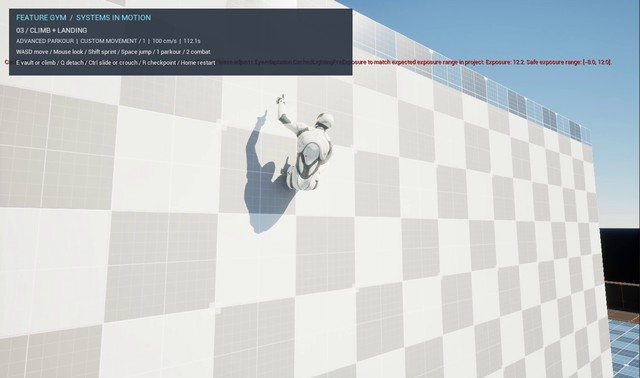
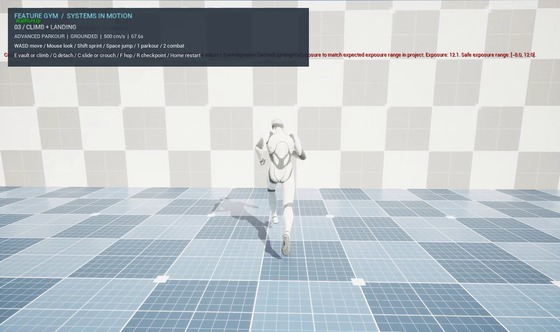
Refresh traversal GIFs from updated Feature Gym recording

diff --git a/assets/feature-gym.js b/assets/feature-gym.js
@@ -43,7 +43,7 @@ export function renderFeatureGym() {
     <section id="gym-architecture" class="gym-section gym-overview">${architecture()}${copy('01 / SYSTEM OVERVIEW','Parkour plugin architecture','<p>I built the parkour plugin around a single custom character movement component. Climbing, vaulting, and sliding feed into the same movement and animation pipeline.</p><p>Detection and movement conditions determine which traversal state can run. Blueprint-exposed settings connect the C++ implementation to animation and gameplay configuration.</p>')}</section>
     <section id="gym-slide" class="gym-section gym-three">${copy('02 / TRAVERSAL','Sliding','<p>I implemented sliding as an additional traversal option, allowing the player to transition from normal movement into a lower-profile movement state.</p><p>The movement component checks whether a slide can start, adjusts the collision dimensions, and handles the custom sliding physics before returning to normal movement.</p>')}${clip('slide-under-obstacle','Slide under an obstacle','Gameplay capture · 6.2 seconds · loop available')}${flow('PLAYER SLIDE LOGIC',['Player moving','Slide input','Check slide conditions','Enter slide state','Adjust collision / movement','Update sliding physics','Exit slide state'])}</section>
     <section id="gym-vault" class="gym-section gym-three gym-vault">${vaultDiagram()}<figure class="gym-clip gym-vault-placeholder"><div class="gym-missing"><span aria-hidden="true">▷</span><strong>Vaulting demonstration</strong><p>A dedicated vaulting clip will be added here.</p></div><figcaption>Video placeholder · reserved for a clear vault sequence</figcaption></figure>${copy('03 / TRAVERSAL','Vaulting','<p><strong>Detect.</strong> Trace for a valid obstacle and a landing position.</p><p><strong>Measure.</strong> Determine the entry and exit points, then measure the distance between them.</p><p><strong>Select.</strong> Match that distance to a configured montage range. Short, medium, and long are the conceptual categories in the diagram.</p><p><strong>Traverse.</strong> Set the motion-warp targets and use the animation’s root motion to carry the character across the obstacle.</p>')}</section>
-    <section id="gym-traversal" class="gym-section"><div class="gym-section-intro">${copy('04 / TRAVERSAL','Wall-running & climbing','<p>Sideways wall-running, upward wall-running, and climbing are shown separately so each movement behavior is easy to assess. The upward run shows the character reaching the top of the wall.</p>')}</div><div class="gym-two">${clip('wall-run-clean','Sideways wall run','A cleaner continuous run along the wall · 5.4 seconds')}${clip('wall-run-up','Upward wall run','Run up the wall and reach the top · 3.8 seconds')}${clip('climbing-and-ledge','Climbing toward a ledge','Surface traversal and ledge approach · 8.5 seconds')}</div></section>
+    <section id="gym-traversal" class="gym-section"><div class="gym-section-intro">${copy('04 / TRAVERSAL','Wall-running & climbing','<p>Sideways wall-running, upward wall-running, and climbing are shown separately so each movement behavior is easy to assess. The upward run shows the character reaching the top of the wall.</p>')}</div><div class="gym-two">${clip('wall-run-clean','Sideways wall run','Updated gameplay · wall run and jump · 7.8 seconds')}${clip('wall-run-up','Upward wall run','Updated gameplay · upward run and exit · 7.2 seconds')}${clip('climbing-and-ledge','Climbing onto a ledge','Updated gameplay · climb the wall and reach the top · 12.7 seconds')}</div></section>
     <section id="gym-combo" class="gym-section gym-overview gym-combo">${comboDiagram()}${copy('05 / COMBAT','Configurable combo attacks','<p>I built a C++ combat plugin around an attack state machine, inspired by Devil May Cry, Yakuza, Shenmue, and Sifu. An idle state starts an attack, and each attack state defines its montage, playback speed, base damage, input requirements, and possible follow-up attacks.</p><p>Blueprint subclasses expose these settings so different moves can share the same runtime logic. Final attacks cannot chain further.</p><p>The system keeps physically held buttons separate from one buffered command. A new press replaces the previous command, and unused input expires after a configurable duration—two seconds by default. Consuming or expiring the command preserves the physical button state.</p>')}<div class="gym-two gym-combat-clips">${clip('combat-sequence','Combat attack sequence','Attacks demonstrated in the gameplay test environment · 8 seconds')}${clip('combo-attack-delayed','Combo attack — delayed','Delayed combo sequence from 3:10 in the recording · 5.2 seconds')}${clip('heavy-attack','Heavy attack','A focused heavy-attack demonstration · 6 seconds')}</div></section>
     <section id="gym-combo-timing" class="gym-section">${copy('06 / INPUT & TIMING','Animation-driven combo windows','<p>Animation notify windows determine when a follow-up attack is allowed. Normal and delayed windows select different configured press branches for light, medium, and heavy attacks. Early input can wait in the buffer until a valid window opens, provided it has not expired.</p><p>Delayed combos depend on the active animation window, rather than a separate elapsed-input timer. Configurable Hold branches also exist, while the new press entry point buffers a Pressed command; physical held-button tracking supports charging independently.</p>')}</section>
     <section id="gym-charge" class="gym-section gym-overview gym-combo">${flow('CHARGED ATTACK FLOW',['Start charge-enabled attack','Hold configured button','Tier notifies advance charge','Release request latched','Release notify window','Apply tier damage multiplier','Jump to Recovery','Attack ends / idle'])}${copy('07 / CHARGED ATTACKS','Charge tiers & release timing','<p>Charge-enabled attacks track the configured button while animation notifies advance the charge tier. Releasing the button latches a request; a charge-release notify window commits that request, applies the selected damage multiplier, and jumps to the Recovery montage section.</p><p>Tiers cannot decrease, and pressing again cannot cancel a latched release. The default multipliers are 1×, 1.5×, and 2× base damage, with configurable values.</p><p>All tiers share one Recovery section. The full-charge loop defaults to FullChargeLoop, so each tier does not need a separate recovery animation.</p><p class="pending">The GIFs above show the recorded gameplay build. Updated footage of the current charge implementation is still to be captured.</p>')}</section>
